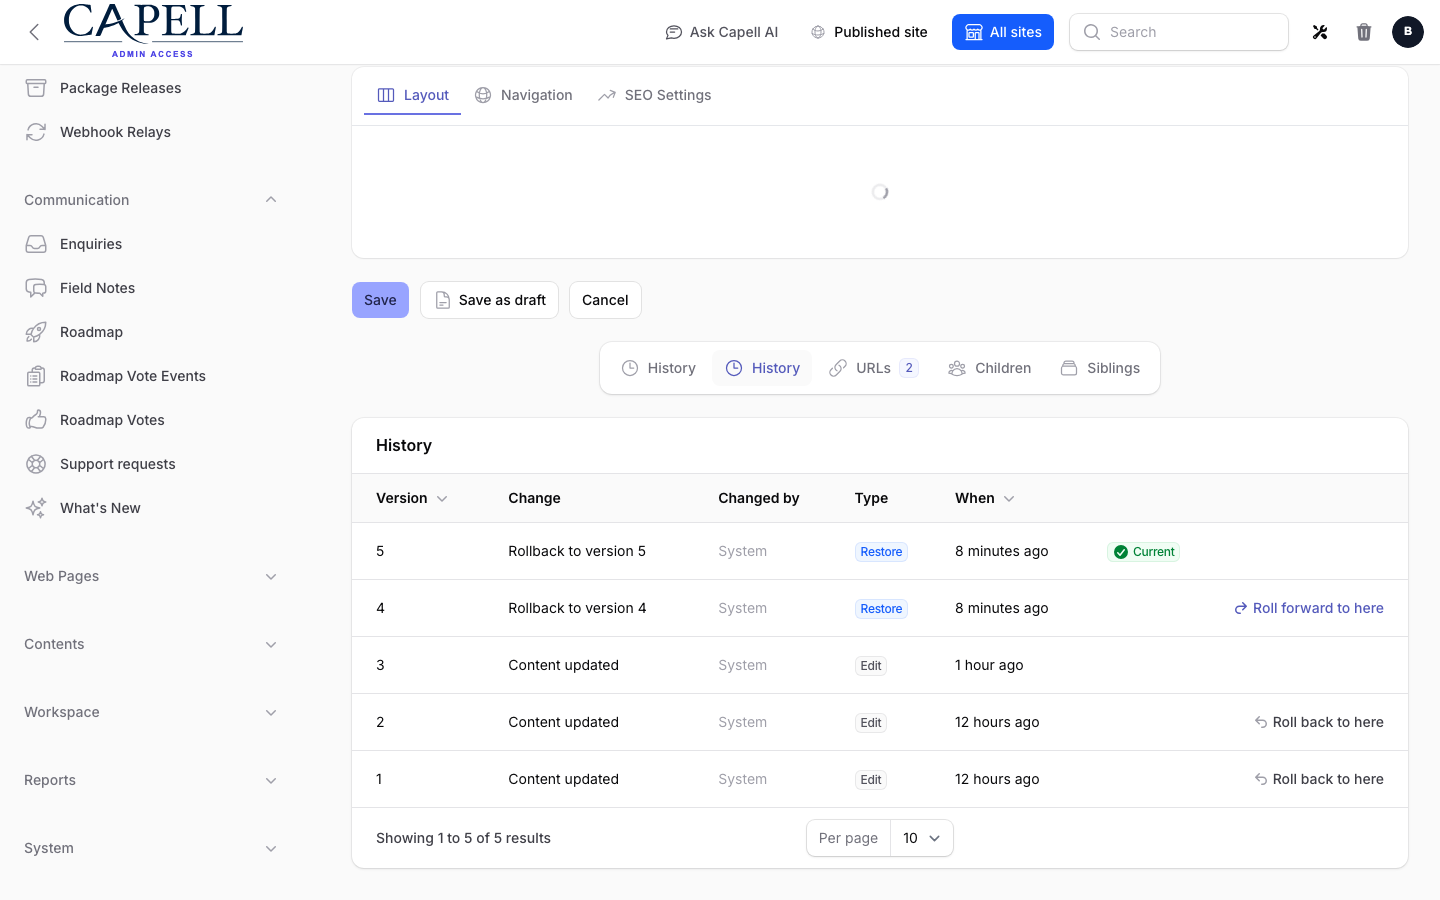
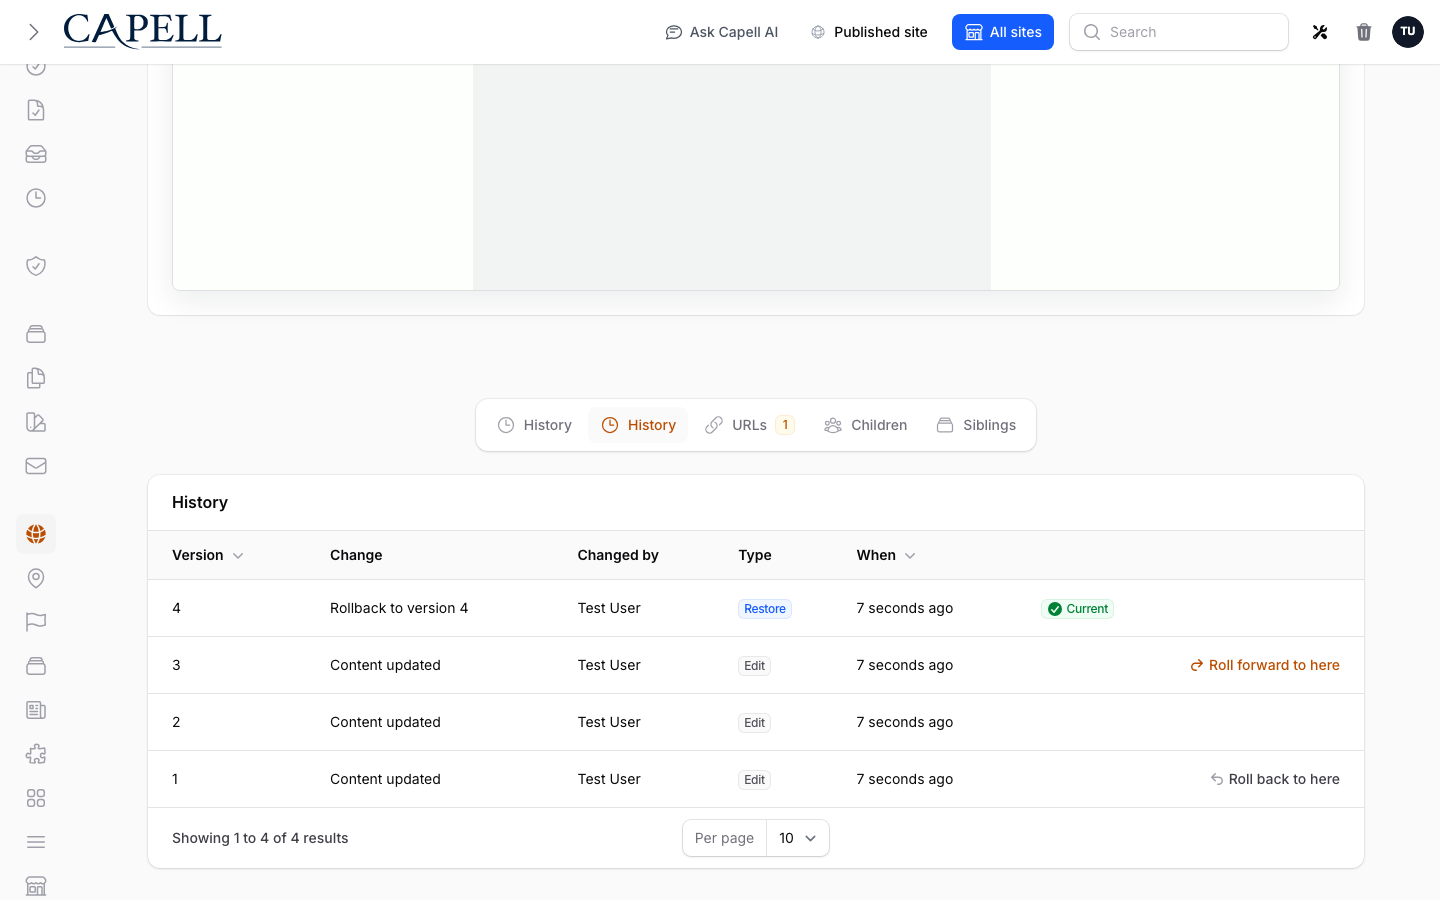
fix(admin): capture page history proof reliably

diff --git a/workbench/app/Support/PageHistoryFixture.php b/workbench/app/Support/PageHistoryFixture.php
@@ -17,6 +17,8 @@ use Illuminate\Support\Facades\DB;
 
 final class PageHistoryFixture
 {
+    private const string LayoutKey = 'page-history-screenshot-fixture';
+
     private const string PageName = 'Page history screenshot fixture';
 
     public static function editUrl(): string
@@ -27,6 +29,11 @@ final class PageHistoryFixture
     private static function rebuild(): Page
     {
         $page = self::page();
+        $layout = self::layout($page->site);
+
+        if ($page->layout_id !== $layout->getKey()) {
+            $page->forceFill(['layout_id' => $layout->getKey()])->save();
+        }
 
         DB::transaction(function () use ($page): void {
             DB::table('stored_events')->where('aggregate_uuid', $page->uuid)->delete();
@@ -70,6 +77,20 @@ final class PageHistoryFixture
         ])->save();
 
         return $page;
+    }
+
+    private static function layout(Site $site): Layout
+    {
+        return Layout::query()->updateOrCreate(
+            [
+                'site_id' => $site->getKey(),
+                'key' => self::LayoutKey,
+            ],
+            [
+                'name' => 'Page history screenshot fixture',
+                'containers' => [],
+            ],
+        );
     }
 
     private static function recordRevision(Page $page, string $title, string $content): void

diff --git a/packages/admin/tests/Unit/AdminWorkflowProofManifestTest.php b/packages/admin/tests/Unit/AdminWorkflowProofManifestTest.php
@@ -20,7 +20,24 @@ it('requires populated page history and reversible recovery proof', function ():
             ->and(strtolower((string) $entry['notes']))->not->toContain('optional', 'empty state', 'fixture');
     }
 
-    expect($entries->get('page-history-rollback-preview')['beforeWait'])->toBe([
+    $historyTabInteraction = [
+        'type' => 'click',
+        'selector' => "button[wire\\:click*=\"activeRelationManager\"][wire\\:click*=\"'1'\"]",
+    ];
+
+    expect($entries->get('page-history-timeline')['beforeWait'])->toBe([
+        $historyTabInteraction,
+    ])->and($entries->get('page-history-timeline')['interactions'])->toBe([
+        [
+            'type' => 'waitFor',
+            'selector' => '.fi-ta',
+        ],
+        [
+            'type' => 'scrollIntoView',
+            'selector' => '.fi-ta',
+        ],
+    ])->and($entries->get('page-history-rollback-preview')['beforeWait'])->toBe([
+        $historyTabInteraction,
         [
             'type' => 'click',
             'selector' => "button[wire\\:click*='rollback']",

diff --git a/packages/admin/tests/Feature/Documentation/PageHistoryScreenshotFixtureTest.php b/packages/admin/tests/Feature/Documentation/PageHistoryScreenshotFixtureTest.php
@@ -29,5 +29,7 @@ it('rebuilds deterministic page history with rollback and roll-forward targets',
         ->and($revisions->pluck('is_rollback')->all())->toBe([false, false, false, true])
         ->and(resolve(RollbackService::class)->currentVersion($page->uuid))->toBe(4)
         ->and(resolve(RollbackService::class)->activeContentVersion($page->uuid))->toBe(2)
+        ->and($page->layout->key)->toBe('page-history-screenshot-fixture')
+        ->and($page->layout->containers)->toBe([])
         ->and($page->translations()->firstOrFail()->title)->toBe('Homepage launch copy reviewed');
 });
